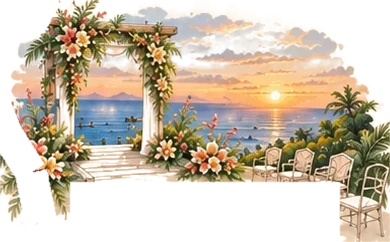
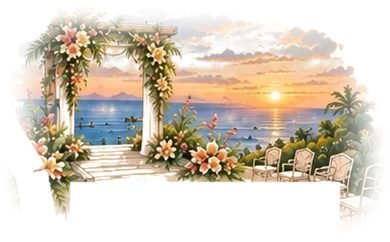
RSVP without email; dietary needs full width; map scene drawings fade at their edges
- The email field is gone, along with its validation and the mailed-copy
  note. Name shares its row with party size (when shown) and dietary
  needs runs full width so its placeholder is not cut off.
- The Rock Bar, ceremony and reception drawings are scenes rather than
  cut-outs, so their rectangles showed on the island; their edges now
  fade out softly.

Claude-Session: https://claude.ai/code/session_01GqK2ENqeRUwQmtgcSZFd9X

diff --git a/index.html b/index.html
@@ -1083,10 +1083,10 @@ html.has-lightbox{overflow:hidden}
           <input type="text" id="name" name="name" autocomplete="name" maxlength="80" required>
           <p class="err">Please tell us who you are.</p>
         </div>
-        <div class="field" id="fEmail">
-          <label for="email">Email</label>
-          <input type="email" id="email" name="email" autocomplete="email" inputmode="email" maxlength="120" required>
-          <p class="err">That email doesn't look right.</p>
+        <div class="field" id="fParty" hidden>
+          <label for="party">Party size</label>
+          <select id="party" name="party"></select>
+          <p class="hint-line" id="partyHint"></p>
         </div>
       </div>
 
@@ -1102,16 +1102,9 @@ html.has-lightbox{overflow:hidden}
         <p class="err">Let us know if you can make it.</p>
       </div>
 
-      <div class="field-row">
-        <div class="field" id="fParty" hidden>
-          <label for="party">Party size</label>
-          <select id="party" name="party"></select>
-          <p class="hint-line" id="partyHint"></p>
-        </div>
-        <div class="field" id="fDiet">
-          <label for="diet">Dietary needs</label>
-          <input type="text" id="diet" name="diet" maxlength="200" placeholder="Anything the kitchen should know">
-        </div>
+      <div class="field" id="fDiet">
+        <label for="diet">Dietary needs</label>
+        <input type="text" id="diet" name="diet" maxlength="200" placeholder="Anything the kitchen should know">
       </div>
 
       <div class="field">
@@ -1127,14 +1120,12 @@ html.has-lightbox{overflow:hidden}
       <h3>We can't wait.</h3>
       <p>Thank you. Your reply is in, and we'll be in touch with booking details for the estate and a few notes on getting to Bali.</p>
       <p>Start thinking about linen.</p>
-      <p class="muted confirm-mail" hidden>A copy of your reply is on its way to your inbox.</p>
       <span class="mono">See you on the cliff · Aug 28, 2027</span>
     </div>
     <div class="confirm" id="confirmNo">
       <h3>We'll miss you.</h3>
       <p>Thank you for letting us know. We understand completely, and we'll raise a glass to you from the cliff.</p>
       <p>If anything changes before the end of January, just open your invitation again and send a new reply.</p>
-      <p class="muted confirm-mail" hidden>A copy of your reply is on its way to your inbox.</p>
       <span class="mono">With love · Ashley &amp; Charles</span>
     </div>
   </div>
@@ -1779,7 +1770,7 @@ var RSVP_ENDPOINT = "";
      RSVP
   ------------------------------------------------------------------------- */
   var form = $('rsvpForm'), submitBtn = $('submitBtn'), formError = $('formError');
-  var fName = $('fName'), fEmail = $('fEmail'), fAttending = $('fAttending'), fParty = $('fParty'), fDiet = $('fDiet');
+  var fName = $('fName'), fAttending = $('fAttending'), fParty = $('fParty'), fDiet = $('fDiet');
   var partySel = $('party'), partyHint = $('partyHint');
 
   /* Party-size dropdown is capped at the invitation's seat count. Hidden when it's 1. */
@@ -1836,7 +1827,6 @@ var RSVP_ENDPOINT = "";
         .then(function (d) {
           if (d && d.ok) {
             applyGuest(d.name, d.seats);
-            if (d.email && !$('email').value) $('email').value = d.email;
           } else {
             closeGate('code not found');
           }
@@ -1851,15 +1841,12 @@ var RSVP_ENDPOINT = "";
     applyGuest(params.get('to') || '', isFinite(n) ? n : 1);
   }
 
-  var emailOk = function (v) { return /^[^\s@]+@[^\s@]+\.[^\s@]{2,}$/.test(v); };
   $('name').addEventListener('input', function () { if (this.value.trim()) fName.classList.remove('is-invalid'); });
-  $('email').addEventListener('input', function () { if (emailOk(this.value.trim())) fEmail.classList.remove('is-invalid'); });
 
   function validate() {
     var ok = true, first = null;
-    var name = $('name').value.trim(), email = $('email').value.trim();
+    var name = $('name').value.trim();
     fName.classList.toggle('is-invalid', !name); if (!name) { ok = false; first = first || $('name'); }
-    fEmail.classList.toggle('is-invalid', !emailOk(email)); if (!emailOk(email)) { ok = false; first = first || $('email'); }
     var att = attendingValue();
     fAttending.classList.toggle('is-invalid', !att); if (!att) { ok = false; first = first || radios[0]; }
     if (first) first.focus();
@@ -1870,7 +1857,6 @@ var RSVP_ENDPOINT = "";
     form.hidden = true;
     $('deadline').hidden = true;
     var el = $(declined ? 'confirmNo' : 'confirmYes');
-    el.querySelector('.confirm-mail').hidden = !emailed;
     el.classList.add('is-visible');
     el.setAttribute('tabindex', '-1');
     el.focus({ preventScroll: true });
@@ -1885,7 +1871,6 @@ var RSVP_ENDPOINT = "";
     var party = declined ? 0 : (partyAllowed ? clamp(parseInt(partySel.value, 10) || 1, 1, seats) : 1);
     var payload = {
       name: $('name').value.trim(),
-      email: $('email').value.trim(),
       attending: attendingValue(),
       party: party,
       dietary: declined ? '' : $('diet').value.trim(),
